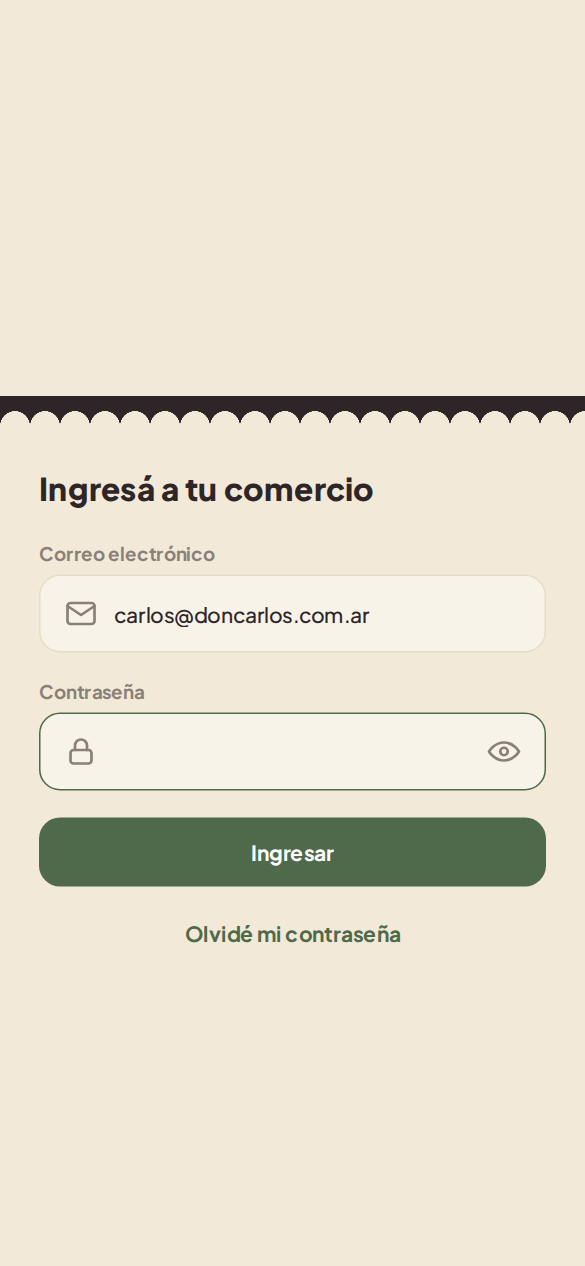
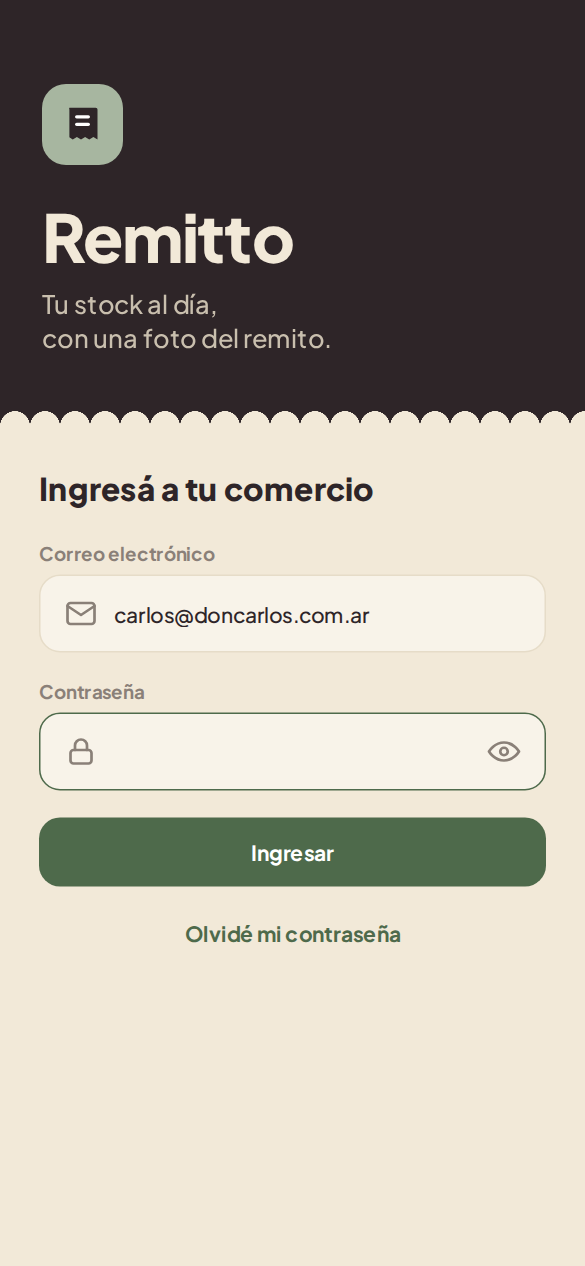
fix: cierre de la entrega (login, aislamiento e2e, dependencias y prueba del ingreso)
- Login: el encabezado (logo, nombre y lema) no se veía; la máscara del
  borde dentado dejaba transparente todo salvo la última franja. Se agrega
  una capa sólida. «Olvidé mi contraseña» ahora explica cómo restablecerla.
  Los datos del usuario de ejemplo se precargan solo en desarrollo.
- alertas.service ya no importa el cliente global de Prisma: el seed lo usa
  sin cargar la configuración del servidor y la prueba de aislamiento del
  ejecutor e2e vuelve a dar 26 de 26.
- Backend: body-parser 1.20.9, multer 2.5.0 y qs 6.16.2 (npm audit, sin
  cambios de versión mayor).
- Nuevo escenario e2e hu11-ingreso (HU8 a HU11): carga, lectura, revisión,
  todo o nada, confirmaciones simultáneas y la invariante del stock.
- Documentación: verificación final, producción, auditoría de criterios,
  requerimientos (HTTPS y tiempos de Gemini) y referencias desactualizadas.

diff --git a/frontend/src/pages/Login.jsx b/frontend/src/pages/Login.jsx
@@ -4,14 +4,19 @@ import { useAuth } from '../context/AuthContext.jsx';
 import { IconoRemitto, IconoSobre, IconoCandado, IconoOjo } from '../components/iconos.jsx';
 import './Login.css';
 
+const DEMO = import.meta.env.DEV;
+
 export default function Login() {
   const { iniciarSesion } = useAuth();
   const navegar = useNavigate();
-  const [email, setEmail] = useState('carlos@doncarlos.com.ar');
-  const [password, setPassword] = useState('remitto123');
+  // Los datos del usuario de ejemplo se precargan solo en desarrollo
+  // (npm run dev): en producción el formulario empieza vacío.
+  const [email, setEmail] = useState(DEMO ? 'carlos@doncarlos.com.ar' : '');
+  const [password, setPassword] = useState(DEMO ? 'remitto123' : '');
   const [verClave, setVerClave] = useState(false);
   const [error, setError] = useState('');
   const [cargando, setCargando] = useState(false);
+  const [ayudaClave, setAyudaClave] = useState(false);
 
   async function enviar(e) {
     e.preventDefault();
@@ -88,9 +93,15 @@ export default function Login() {
           {cargando ? <span className="spinner" /> : 'Ingresar'}
         </button>
 
-        <button type="button" className="login__olvide">
+        <button type="button" className="login__olvide" onClick={() => setAyudaClave((v) => !v)} aria-expanded={ayudaClave}>
           Olvidé mi contraseña
         </button>
+        {ayudaClave && (
+          <p className="login__ayuda" role="status">
+            Pedile al propietario del comercio que te asigne una contraseña nueva desde Usuarios. Si sos el propietario,
+            contactá a quien administra el sistema.
+          </p>
+        )}
       </form>
     </div>
   );

diff --git a/backend/src/modules/alertas/alertas.service.js b/backend/src/modules/alertas/alertas.service.js
@@ -1,5 +1,6 @@
 import { Prisma } from '@prisma/client';
-import { prisma } from '../../lib/prisma.js';
+// Sin el cliente global (lib/prisma): quien llama pasa la base. Así el seed
+// puede usar este módulo sin cargar ni validar la configuración del servidor.
 import { observarMovimientos } from '../stock/stock.observadores.js';
 
 // HU24 (RF6.1): alertas de stock bajo, sin stock y negativo.
@@ -59,7 +60,7 @@ export function activarAlertas() {
 
 // Recalcula las alertas de todos los productos (lo usa el seed, que crea
 // productos sin pasar por la API).
-export async function sincronizarAlertas(db = prisma) {
+export async function sincronizarAlertas(db) {
   const productos = await db.producto.findMany({ select: { id: true }, orderBy: { id: 'asc' } });
   for (const { id } of productos) await db.$transaction((tx) => evaluarAlertas(tx, id));
   return productos.length;
@@ -104,7 +105,7 @@ const PRODUCTO = {
 };
 
 // Alertas activas y las últimas resueltas (historia breve).
-export async function listar({ resueltas = 20 } = {}, db = prisma) {
+export async function listar({ resueltas = 20 } = {}, db) {
   const [activas, ultimas] = await Promise.all([
     db.alertaStock.findMany({ where: { estado: 'ACTIVA' }, include: { producto: PRODUCTO } }),
     db.alertaStock.findMany({

diff --git a/frontend/src/pages/Login.css b/frontend/src/pages/Login.css
@@ -12,8 +12,15 @@
   color: var(--crema);
   padding: 56px 28px 48px;
   position: relative;
-  -webkit-mask: radial-gradient(10px at 10px 100%, transparent 98%, #000) repeat-x bottom left / 20px 20px;
-  mask: radial-gradient(10px at 10px 100%, transparent 98%, #000) repeat-x bottom left / 20px 20px;
+  /* Dos capas: el bloque entero salvo los últimos 20 px, y abajo la fila de
+     semicírculos. Con una sola capa (repeat-x) quedaba visible solo esa fila
+     y el logo, el nombre y el lema no se veían. */
+  -webkit-mask:
+    linear-gradient(#000 0 0) top / 100% calc(100% - 19px) no-repeat,
+    radial-gradient(10px at 10px 100%, transparent 98%, #000) bottom left / 20px 20px repeat-x;
+  mask:
+    linear-gradient(#000 0 0) top / 100% calc(100% - 19px) no-repeat,
+    radial-gradient(10px at 10px 100%, transparent 98%, #000) bottom left / 20px 20px repeat-x;
 }
 .login__logo {
   display: grid;
@@ -59,4 +66,10 @@
   font-size: var(--fs-texto);
   align-self: center;
   padding: 4px;
+}
+.login__ayuda {
+  font-size: var(--fs-detalle);
+  color: var(--texto-suave);
+  text-align: center;
+  line-height: 1.45;
 }

diff --git a/backend/src/lib/prisma.js b/backend/src/lib/prisma.js
@@ -2,7 +2,8 @@ import { PrismaClient } from '@prisma/client';
 import { esProduccion } from '../config/env.js';
 
 // Cliente Prisma único para toda la aplicación (capa de acceso a datos).
-// Los servicios de dominio lo usan a través de los repositorios de cada módulo.
+// Los servicios lo usan directamente; varios lo reciben como parámetro `db`
+// para trabajar dentro de una transacción o con una base simulada en las pruebas.
 export const prisma = new PrismaClient({
   log: esProduccion ? ['error'] : ['warn', 'error'],
 });

diff --git a/backend/src/modules/alertas/alertas.routes.js b/backend/src/modules/alertas/alertas.routes.js
@@ -1,6 +1,7 @@
 import { Router } from 'express';
 import { asyncHandler } from '../../lib/errors.js';
 import { autenticar } from '../../middlewares/auth.js';
+import { prisma } from '../../lib/prisma.js';
 import * as alertas from './alertas.service.js';
 
 const router = Router();
@@ -10,7 +11,7 @@ const router = Router();
 router.use(autenticar);
 
 router.get('/', asyncHandler(async (req, res) => {
-  res.json(await alertas.listar());
+  res.json(await alertas.listar({}, prisma));
 }));
 
 export default router;

diff --git a/docs/estado-proyecto.md b/docs/estado-proyecto.md
@@ -4,17 +4,17 @@ Fotografía breve para retomar el trabajo. Git, los PR y el código son la fuent
 
 ## Referencia verificada (15/11/2026)
 
-- `origin/main` en `e31ec10` (merge del PR #34, HU31), comprobado el 15/11/2026. **En `main`:** HU1 a HU29, todas las obligatorias, y la deseable HU31. **Solo en la rama `feature/HU30-escanear-codigo`, sin integrar:** la deseable HU30.
+- `origin/main` en `0aea032` (merge del PR #36, corrección de HU25), comprobado el 15/11/2026. **En `main`:** HU1 a HU31, las 29 obligatorias y las 2 deseables.
 - **Primera entrega del TPI: lunes 16/11/2026.** Consigna y entregables en [entrega-tpi.md](entrega-tpi.md).
 - **HU7:** el equipo informó el 14/11 que instaló la PWA en un Android real y funciona (no verificado en esta revisión).
-- Los PDF de la documentación probatoria están fuera del repositorio (`../remitto-entrega/`); se regeneraron el 14/11 con HU16 a HU20 y HU27 a HU29. **No incluyen HU21 ni HU22**: hay que regenerarlos.
+- Los PDF de la documentación probatoria están fuera del repositorio (`../remitto-entrega/`); se regeneraron el 14/11 con HU16 a HU20 y HU27 a HU29. **No incluyen HU21 a HU31**: hay que regenerarlos (requerimientos y manual; el diseño de la base no cambió).
 - **Integración externa:**
   - HU21 (claves de integración): integrada por el [PR #27](https://github.com/UTN-FRRE-2026/remitto/pull/27), merge `708f9d9`.
   - HU22 (salidas desde un sistema externo): integrada por el [PR #28](https://github.com/UTN-FRRE-2026/remitto/pull/28), merge `b822eb9`. El contenido integrado es idéntico al último commit publicado de la rama (`77e614f`).
   - HU23 (simulador de ventas): integrada por el [PR #30](https://github.com/UTN-FRRE-2026/remitto/pull/30), merge `2dba88f`.
   - El respaldo del avance de HU21 (el stash `5373a09` y el patch de `retomar/`, en la copia local de Maxi) se conserva aunque ya no hace falta.
-- **Migraciones nuevas:** `20261114140000_hu21_claves_integracion`, `20261114150000_hu22_pedido_externo` y `20261115120000_hu24_alertas_stock` (solo datos), todas en `main`. HU26 no agrega migraciones. Quien use una base local tiene que aplicarlas con `npx prisma migrate deploy` (sin reset). En producción, el contenedor las aplica al arrancar; no se verificó.
-- PR #1 a #34 integrados en `main`.
+- **Migraciones nuevas:** `20261114140000_hu21_claves_integracion`, `20261114150000_hu22_pedido_externo` y `20261115120000_hu24_alertas_stock` (solo datos), todas en `main`. HU26 no agrega migraciones. Quien use una base local tiene que aplicarlas con `npx prisma migrate deploy` (sin reset). En producción, el contenedor las aplica al arrancar. El 15/11 las rutas de HU21 a HU31 respondían en producción (401 sin sesión), lo que indica el esquema al día; no se entró con usuario.
+- PR #1 a #36 integrados en `main`.
 
 ## Integrado en `main`
 
@@ -53,6 +53,8 @@ Fotografía breve para retomar el trabajo. Git, los PR y el código son la fuent
 | HU26 tablero de situación | [PR #32](https://github.com/UTN-FRRE-2026/remitto/pull/32) |
 | HU25 asistente de consultas | [PR #33](https://github.com/UTN-FRRE-2026/remitto/pull/33) |
 | HU31 orden de compra (deseable; dependencia nueva `pdfkit`) | [PR #34](https://github.com/UTN-FRRE-2026/remitto/pull/34) |
+| HU30 escaneo del código en el carrito (deseable; dependencias nuevas `@zxing/browser` y `@zxing/library`) | [PR #35](https://github.com/UTN-FRRE-2026/remitto/pull/35) |
+| Corrección de HU25 con Gemini real (período y argumentos del plan) | [PR #36](https://github.com/UTN-FRRE-2026/remitto/pull/36) |
 
 HU1, HU2 y HU4 a HU7 llegaron con el scaffold inicial. Integrado no significa que se haya comprobado ahora cada criterio de aceptación.
 
@@ -60,13 +62,38 @@ HU1, HU2 y HU4 a HU7 llegaron con el scaffold inicial. Integrado no significa qu
 
 | Estado observado | Historias |
 | --- | --- |
-| Backend y pantalla | HU1 a HU6, HU8 a HU22, HU24, HU26 a HU29 |
+| Backend y pantalla | HU1 a HU6, HU8 a HU22, HU24 a HU29 |
 | Simulador (sin pantalla) | HU23 (`simulador/simulador.mjs`, escenario `hu23-simulador`) |
-| Backend y pantalla (deseable) | HU31 orden de compra |
-| Implementada en su rama, sin integrar | HU30 escaneo del código en el carrito, deseable (`feature/HU30-escanear-codigo`) |
+| Backend y pantalla (deseables) | HU30 escaneo del código en el carrito y HU31 orden de compra |
 | Probada por el equipo | HU7 PWA (`vite-plugin-pwa`): instalada en un Android real y funcionando (informado el 14/11/2026, no verificado en esta revisión) |
 
-## Validación de HU30 (15/11/2026, rama `feature/HU30-escanear-codigo`, sin integrar)
+## Verificación final (15/11/2026, sobre `0aea032`)
+
+- **Pruebas de todo `main`, con dependencias reinstaladas (`npm ci`):**
+  - `npm test`: 257 correctas.
+  - `npm run build` correcto.
+  - `npm run e2e -- hu21-claves hu22-salidas hu23-simulador hu26-tablero hu25-asistente hu31-orden-compra hu30-codigo`: 189 de 189.
+  - `hu24-alertas`, aparte: 31 de 31.
+- **`npm run e2e:aislamiento`: falló 1 de 26** («la API de prueba cae al arrancar» terminaba con código 1 y no 2).
+  - Desde HU24, el seed importa `alertas.service`, que cargaba el cliente global y con él la configuración del servidor. La configuración inválida de la prueba hacía fallar el seed antes de que arrancara la API.
+  - El ejecutor igual abortaba sin correr escenarios y borraba su base.
+  - Corregido: `alertas.service` ya no importa el cliente global (la ruta le pasa `prisma`). Ahora 26 de 26; `hu24-alertas` y `hu26-tablero` 53 de 53.
+- **Producción** (`remitto.blackandred.com.ar`), solo pedidos sin sesión:
+  - `/api/health` responde y HTTP redirige a HTTPS (certificado de Let's Encrypt hasta el 24/01/2027);
+  - las rutas de HU21 a HU31 existen (401 sin sesión);
+  - el frontend publicado incluye el escáner de HU30.
+  - No se verificó con usuario si ya corre la corrección de HU25 (PR #36).
+- **Login:** el encabezado (logo, «Remitto» y el lema) nunca se veía.
+  - La máscara del borde dentado tenía una sola capa con `repeat-x` de 20 px de alto, así que todo lo que estaba por encima quedaba transparente. Le pasaba a cualquier navegador, y así quedó también en la captura del manual del 13/11.
+  - Se corrigió con una segunda capa sólida, comprobado en el navegador, y se reemplazó `docs/manual/01-inicio-sesion.png`.
+- **Auditoría de criterios (HU1 a HU31 contra el código):** ningún criterio sin implementar. Se corrigió el botón «Olvidé mi contraseña», que no hacía nada: ahora explica que el propietario asigna una nueva desde Usuarios. Quedan para el equipo:
+  - **Patrones del plan:** Repository no existe como capa; los servicios usan Prisma directamente, y varios lo reciben como `db` para transacciones y pruebas. Strategy elige el adaptador de IA (Gemini o simulado) y el tipo de archivo (imagen o PDF), no una estrategia por «imagen de baja calidad», que solo activa la revisión obligatoria (HU17). Adapter y Observer coinciden con el plan. Conviene explicarlo así en el Informe y en la defensa.
+  - **Pruebas automáticas:** HU1 a HU7 y HU12 a HU20 solo tienen pruebas unitarias. Se agregó el escenario `hu11-ingreso` (HU8 a HU11), con 18 de 18 controles, para el flujo central: carga, lectura, revisión, todo o nada, 6 confirmaciones simultáneas con una sola entrada y la invariante del stock.
+  - **Login:** precargaba el correo y la contraseña del propietario de ejemplo también en producción. Ahora solo se precargan en desarrollo (`npm run dev`); el build de producción no contiene la contraseña (verificado). Igual conviene cambiar `remitto123` en producción si ese usuario existe allí.
+  - **Dependencias:** se actualizaron sin cambios de versión mayor `body-parser` 1.20.9, `multer` 2.5.0 y `qs` 6.16.2 (backend). Las 257 pruebas y el escenario de ingreso, que sube archivos, siguen correctos.
+    - Quedan `zod` (alta: consumo de memoria con colecciones enormes) y `react-router` (moderada). Su arreglo exige pasar a una versión mayor, así que no se tocan antes de la entrega.
+
+## Validación de HU30 (15/11/2026, integrada en el PR #35; pruebas ejecutadas en la rama `feature/HU30-escanear-codigo`)
 
 - **Qué hay:**
   - `EscanerCodigo.jsx`: cámara trasera con ZXing (`@zxing/browser` 0.1.5 y `@zxing/library` 0.21.3, dependencias nuevas del frontend, fijadas). Se carga recién al abrir el escáner, en un chunk aparte que el service worker precachea.
@@ -138,7 +165,7 @@ Revisión del código integrado. Se volvieron a correr `npm test` (251) y los e2
     - sin errores de consola.
 - **No probado:** la descarga en un celular real (en la PWA instalada) ni en producción. `npm audit` informa vulnerabilidades previas de `body-parser` y `multer`, ajenas a esta historia.
 
-## Corrección de HU25 con Gemini real (15/11/2026, rama `fix/HU25-plan-gemini`, sin integrar)
+## Corrección de HU25 con Gemini real (15/11/2026, integrada en el PR #36; pruebas ejecutadas en la rama `fix/HU25-plan-gemini`)
 
 - **Qué se encontró:** fue la primera prueba con Gemini real (`gemini-3.1-flash-lite`), contra una base descartable con ventas, roturas y precios.
   - Los 8 tipos respondían, pero las herramientas con producto nunca recibían el período (0 de 10).

diff --git a/docs/requerimientos.md b/docs/requerimientos.md
@@ -1,6 +1,6 @@
 # Lista de requerimientos de Remitto
 
-Requerimientos funcionales, no funcionales y técnicos del [plan de trabajo](plan-de-trabajo.md#enunciado-de-los-requerimientos), con la historia de usuario que los implementa y su estado en `main` al 14/11/2026.
+Requerimientos funcionales, no funcionales y técnicos del [plan de trabajo](plan-de-trabajo.md#enunciado-de-los-requerimientos), con la historia de usuario que los implementa y su estado en `main` al 15/11/2026.
 
 **Estados**
 
@@ -101,8 +101,8 @@ Para el detalle de lo verificado en cada entrega, ver [estado-proyecto.md](estad
 
 | ID | Tipo | Especificación | Estado |
 | --- | --- | --- | --- |
-| RNF1 | Seguridad | Sesión autenticada y HTTPS; contraseñas y claves como hash; credencial de IA solo en el servidor | **Cumplido en lo implementado.** Sesión con token y contraseñas con bcrypt. La clave de Gemini está solo en el backend. Las claves de integración se guardan como hash SHA-256 (HU21). HTTPS depende del despliegue en Coolify, no verificado en esta revisión |
-| RNF2 | Rendimiento | Consultas en 3 s o menos; extracción de un comprobante en 30 s o menos | **Medición implementada:** cada lectura registra su duración y si cumple el objetivo. Falta medirlo con remitos reales en producción. El asistente (HU25) registra la duración de cada consulta; con Gemini real todavía no se midió |
+| RNF1 | Seguridad | Sesión autenticada y HTTPS; contraseñas y claves como hash; credencial de IA solo en el servidor | **Cumplido en lo implementado.** Sesión con token y contraseñas con bcrypt. La clave de Gemini está solo en el backend. Las claves de integración se guardan como hash SHA-256 (HU21). Producción redirige HTTP a HTTPS (certificado de Let's Encrypt, verificado el 15/11/2026) |
+| RNF2 | Rendimiento | Consultas en 3 s o menos; extracción de un comprobante en 30 s o menos | **Medición implementada:** cada lectura registra su duración y si cumple el objetivo. Falta medirlo con remitos reales en producción. El asistente (HU25) registra la duración de cada consulta. Con Gemini real (capa gratuita, 15/11/2026), 31 consultas tardaron de 1,3 a 7 s, con picos de 14 a 28 s: no siempre cumple los 3 s |
 | RNF3 | Usabilidad | Comprobante de 20 líneas en menos de 3 minutos; baja confianza y errores indicados con claridad | **Parcial:** las líneas dudosas se destacan y la validación explica qué corregir. Falta cronometrar un comprobante real de 20 líneas |
 | RNF4 | Compatibilidad | Instalable como PWA en Android y usable en escritorio | **Cumplido:** PWA configurada e instalada por el equipo en un Android real, donde funciona (14/11/2026). Las pantallas también se probaron a 360-390 px y en escritorio con un navegador sin interfaz |
 | RNF5 | Integridad | Reglas principales en la base; stock en la misma transacción que su movimiento | **Cumplido:** claves únicas, `CHECK` e índices parciales (ver [base-de-datos.md](base-de-datos.md)), y todo cambio de stock pasa por `registrarMovimiento` dentro de una transacción |

diff --git a/backend/e2e/README.md b/backend/e2e/README.md
@@ -59,6 +59,13 @@ Termina con código 0 si todos los controles pasaron, 1 si alguno falló y 2 si 
 
 | Archivo | Historia | Qué comprueba |
 | --- | --- | --- |
+| `hu11-ingreso.mjs` | HU8 a HU11 | El flujo central de ingreso con la IA simulada:
+- **carga:** formato no admitido y extensión que no coincide con el contenido, 400; carga del empleado en PENDIENTE;
+- **lectura y revisión:** la lectura no toca el stock; la corrección se guarda aparte de lo leído; línea descartada; la diferencia con el total es aviso;
+- **todo o nada:** con un producto desactivado no entra ninguna línea y el comprobante sigue en revisión;
+- **6 confirmaciones simultáneas:** una sola entra y 5 dan 409, con el stock sumado una vez;
+- **registros:** movimientos y precios vinculados a sus líneas con la fecha de emisión; confirmar de nuevo, 409; un confirmado no se edita; aviso de número duplicado;
+- **invariante:** el stock es igual a la suma de movimientos. |
 | `hu21-claves.mjs` | HU21 | Permisos, la clave completa solo en el alta, el hash SHA-256 en la base, el último uso, la revocación (incluso con pedidos en curso) y `CHECK chk_clave_revocada`. |
 | `hu22-salidas.mjs` | HU22 | Contrato publicado, autenticación, validación y atomicidad, venta por código de barras e id, reenvíos (200 y 409), reenvíos con el catálogo cambiado (código cambiado, borrado o pasado a otro producto, producto desactivado, fecha distinta, 10 en paralelo), `CHECK chk_pedido_externo`, stock negativo y su aviso en la valorización, kilos, carrito sin cambios, 25 reenvíos simultáneos, 52 operaciones simultáneas de dos cajas y carritos, revocación con 120 ventas en curso y el orden determinístico venta → revocación. |
 | `hu24-alertas.mjs` | HU24 | Permisos; las alertas del seed coinciden con los indicadores del tablero; ciclo de vida con producto nuevo, recuento, carrito y venta del endpoint (sin stock → resuelta → stock bajo → sin stock → negativo → resuelta) con su historia; reenvío sin alerta duplicada; mínimo, desactivación y reactivación; 30 ventas del endpoint y 10 carritos simultáneos con una sola alerta por situación; `uq_alerta_activa` rechaza una segunda activa; al final, las alertas activas de todos los productos coinciden con su stock. **Se corre en una ejecución aparte** (`npm run e2e -- hu24-alertas`): parte de los datos del seed sin cambios, y HU21 y HU22 esperan una base sin claves ni salidas previas. |

diff --git a/docs/entrega-tpi.md b/docs/entrega-tpi.md
@@ -26,11 +26,11 @@ En el coloquio también se evalúa:
 
 ## Estado de los entregables
 
-Estado al 15/11/2026, según el repositorio (`main` en `e31ec10`, PR #1 a #34 integrados; HU30 en su rama). Lo que se prepara fuera del repo (aula virtual, YouTube, diseño gráfico) lo tiene que completar el equipo. Los PDF de la documentación probatoria se generan fuera del repositorio, en `../remitto-entrega/`.
+Estado al 15/11/2026, según el repositorio (`main` en `0aea032`, PR #1 a #36 integrados). Lo que se prepara fuera del repo (aula virtual, YouTube, diseño gráfico) lo tiene que completar el equipo. Los PDF de la documentación probatoria se generan fuera del repositorio, en `../remitto-entrega/`.
 
 | Entregable | Estado en el repo | Pendiente |
 | --- | --- | --- |
-| Producto final (aplicación) | En `main` están implementadas las 29 historias obligatorias (HU1 a HU29, 100 de 100 puntos del plan) y la deseable HU31. La deseable HU30 (escaneo con la cámara) está completa en su rama, sin integrar. La PWA se instaló en un Android real (informado por el equipo). Ver [estado](estado-proyecto.md) y [requerimientos](requerimientos.md#resumen) | Integrar HU30. Probar el asistente con Gemini real y el escáner en un celular real. Verificar producción |
+| Producto final (aplicación) | En `main` están implementadas las 29 historias obligatorias (HU1 a HU29, 100 de 100 puntos del plan) y las deseables HU30 y HU31. El asistente se probó con Gemini real (31 consultas). La PWA se instaló en un Android real (informado por el equipo). Producción responde con HTTPS y las rutas de todas las historias. Ver [estado](estado-proyecto.md) y [requerimientos](requerimientos.md#resumen) | Probar en producción, con usuario, el asistente y el escáner en un celular real. Revisar la contraseña del usuario de ejemplo en producción |
 | Plan de Trabajo | [plan-de-trabajo.md](plan-de-trabajo.md) | Definir el formato de entrega (¿el documento original del equipo?) |
 | Informe Final del Alumno | No está en el repo | Bajar el modelo del aula y completarlo |
 | Informe del Tutor | No corresponde si el trabajo no se hace en una organización | Confirmar si aplica (el plan describe un comercio, «Almacén Don Carlos») |

diff --git a/CLAUDE.md b/CLAUDE.md
@@ -28,8 +28,8 @@ TFI de UTN FRRe (Tecnicatura Universitaria en Programación): PWA de gestión de
 ## Estructura y comandos
 
 - Backend (`backend/`): JavaScript ESM, Express, Prisma y PostgreSQL. Módulos en `src/modules/<módulo>/` (rutas, esquemas Zod, servicios), IA en `src/ia/`, migraciones en `prisma/migrations/`, pruebas en `test/` con `node --test`.
-- Frontend (`frontend/`): React + Vite + `vite-plugin-pwa`. Páginas en `src/pages/`, componentes en `src/components/`, tokens visuales en `src/styles/tokens.css`. Las vistas pendientes usan `EnConstruccion` en `src/App.jsx`.
-- npm con un `package.json` y lockfile por aplicación; no hay uno en la raíz. `simulador/` todavía solo tiene un README (HU23).
+- Frontend (`frontend/`): React + Vite + `vite-plugin-pwa`. Páginas en `src/pages/`, componentes en `src/components/`, tokens visuales en `src/styles/tokens.css`. Ya no hay vistas pendientes; `EnConstruccion.jsx` queda sin usar.
+- npm con un `package.json` y lockfile por aplicación; no hay uno en la raíz. `simulador/` tiene el simulador de ventas de HU23 (`simulador.mjs`), que se corre desde el escenario e2e `hu23-simulador`.
 - `backend/`: `npm run dev`, `npm test`, `npm run prisma:generate`, `npm run prisma:migrate`, `npm run seed`, `npm run conciliar-stock`, `npm run doc-bd` (regenera `docs/base-de-datos.md` desde Prisma).
 - `frontend/`: `npm run dev`, `npm run build`, `npm run preview`. No hay lint ni pruebas de frontend.
 - Desarrollo: PostgreSQL de Docker en `localhost:5433` (`docker compose up -d db`), API en `4000`, Vite en `5173` con proxy `/api`. Confirmá puertos y procesos antes de arrancar o detener servicios.
